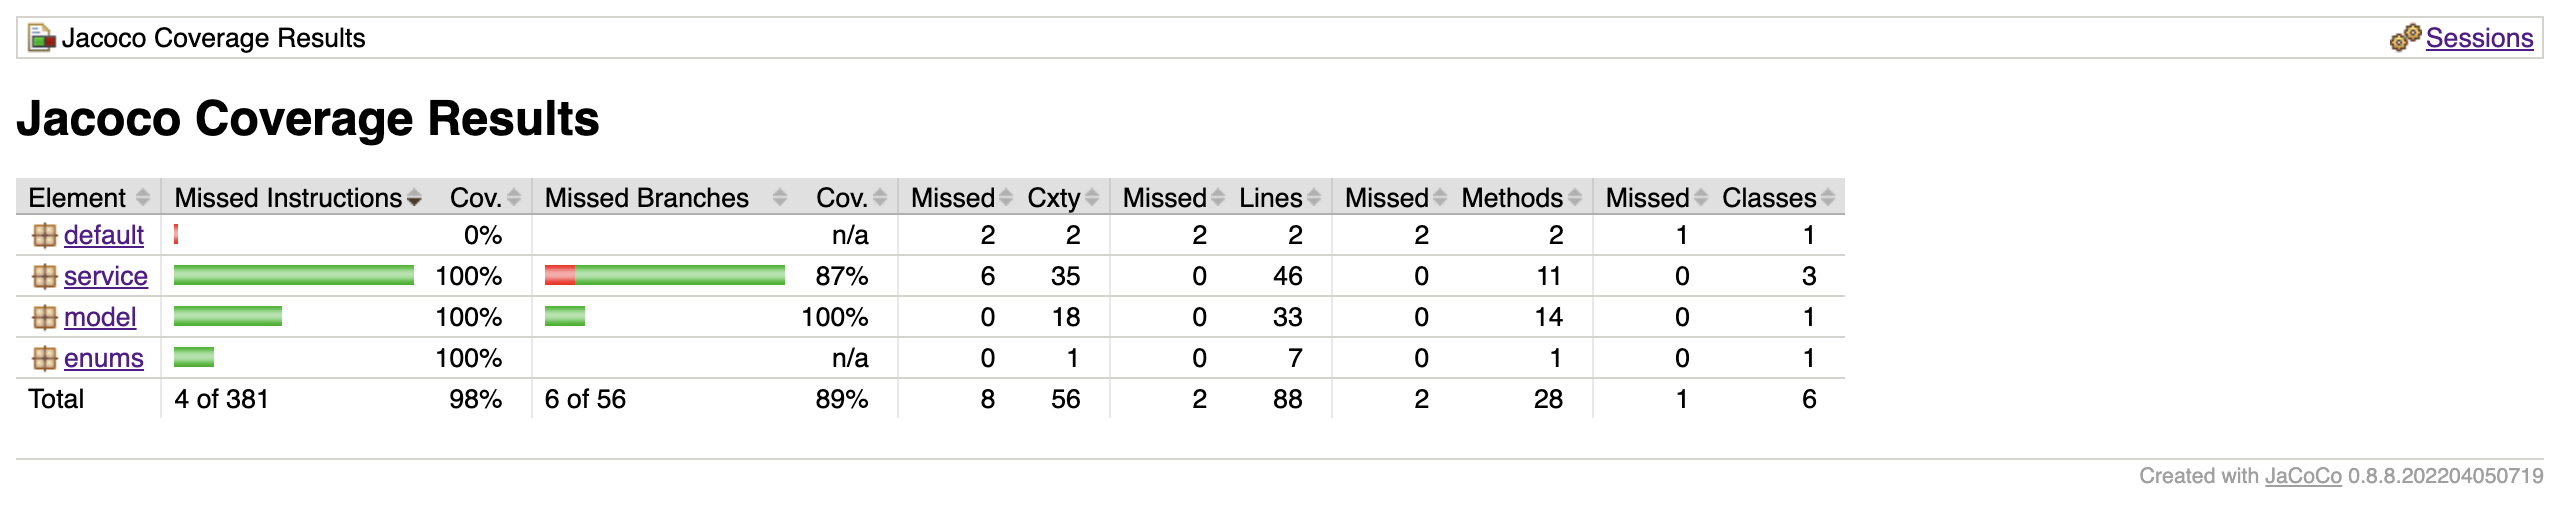
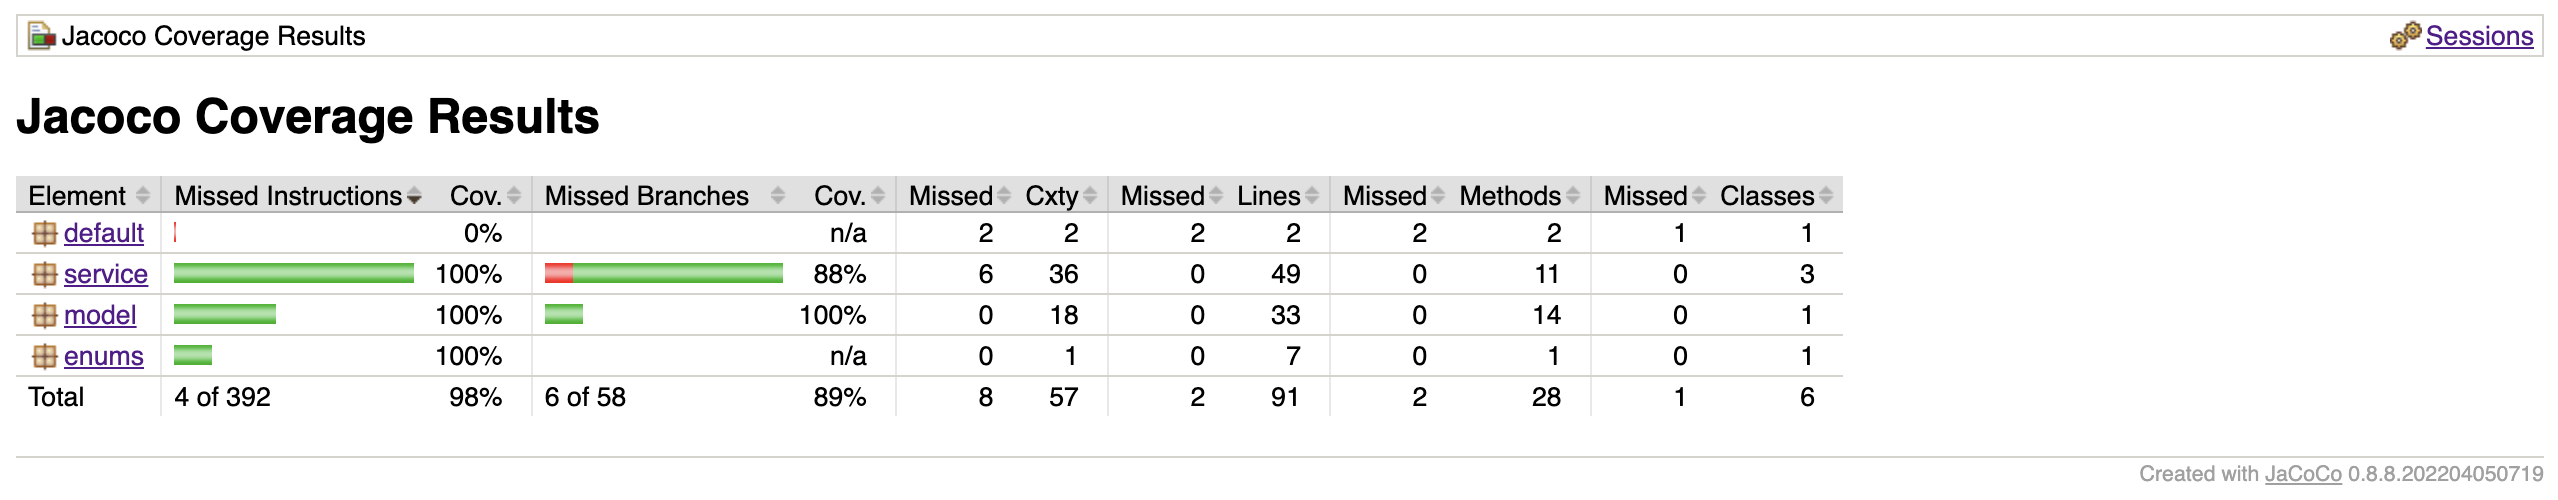
update: nas informações do README.md e novo relatório de cobertura

diff --git a/README.md b/README.md
@@ -1,5 +1,9 @@
-# Documentação máquina lava e seca
+# Projeto de uma máquina lava e seca
 
+Este projeto foi desenvolvido para a disciplina de testes automatizados.
+Foi utilizada a linguagem de programação Java, o framework de testes unitários JUnit5, o framework de mock Mockito e a ferramenta de geração de relatório de cobertura de código JaCoCo.
+
+# Documentação máquina lava e seca
 Neste documento estão descritas as características e regras para o correto funcionamento da máquina lava e seca.
 
 ## Ciclos da máquina: 
@@ -8,25 +12,25 @@ Neste documento estão descritas as características e regras para o correto fun
   - secagem;
 
 ## Regra de uso:
-  - O ciclo completo deve obedecer a seguinte ordem: lavagem -> centrifugação -> secagem
-  - A máquina pode realizar os ciclos isoladamente: só lavar, só centrifugar, só secar
+  - O ciclo completo deve obedecer a seguinte ordem: lavagem -> centrifugação -> secagem.
+  - A máquina pode realizar os ciclos isoladamente: só lavar, só centrifugar, só secar.
 
 ## A máquina deve iniciar da seguinte maneira:
   - desligada;
-  - temperatura e rotação zerada;
+  - temperatura e rotação zerada.
 
 ## Quando máquina desligada deve ser possível:
   - Ligar;
   - Abrir porta;
-  - Fechar porta;
+  - Fechar porta.
 
 ## Quando máquina ligada deve ser possível:
   - Desligar;
   - Abrir porta;
   - Fechar porta;
   - Lavar;
-  - Centrifugar; 
-  - Secar; 
+  - Centrifugar;
+  - Secar.
 
 ## Casos de Teste Adicionais
 - A máquina só pode realizar algum ciclo com a porta fechada e quando estiver ligada.
@@ -34,10 +38,10 @@ Neste documento estão descritas as características e regras para o correto fun
 - A porta só pode abrir quando não tiver acontecendo algum ciclo.
 - Um ciclo não pode iniciar se o outro não tiver sido finalizado.
 - Quando desligada e apenas ligada, a temperatura e rotação estão zeradas.
-- Quando um ciclo é finalizado, a temperatura e a rotação são zeradas.
+- Quando um ciclo é finalizado, a temperatura e a rotação são zeradas e um SMS pode ser enviado (mock).
 - A centrifugação não tem temperatura e não pode passar da rotação máxima.
-- A lavagem e secagem não pode passar da temperatura máxima e retorna erro quando temperatura negativa
-- A lavagem e secagem não pode passar da rotação máxima e retorna erro quando rotação negativa
+- A lavagem e secagem não pode passar da temperatura máxima e retorna erro quando temperatura negativa.
+- A lavagem e secagem não pode passar da rotação máxima e retorna erro quando rotação negativa.
 
 ## Relatório Cobertura com JaCoCo
 ![](Relatorio_Cobertura_JaCoCo.png)
